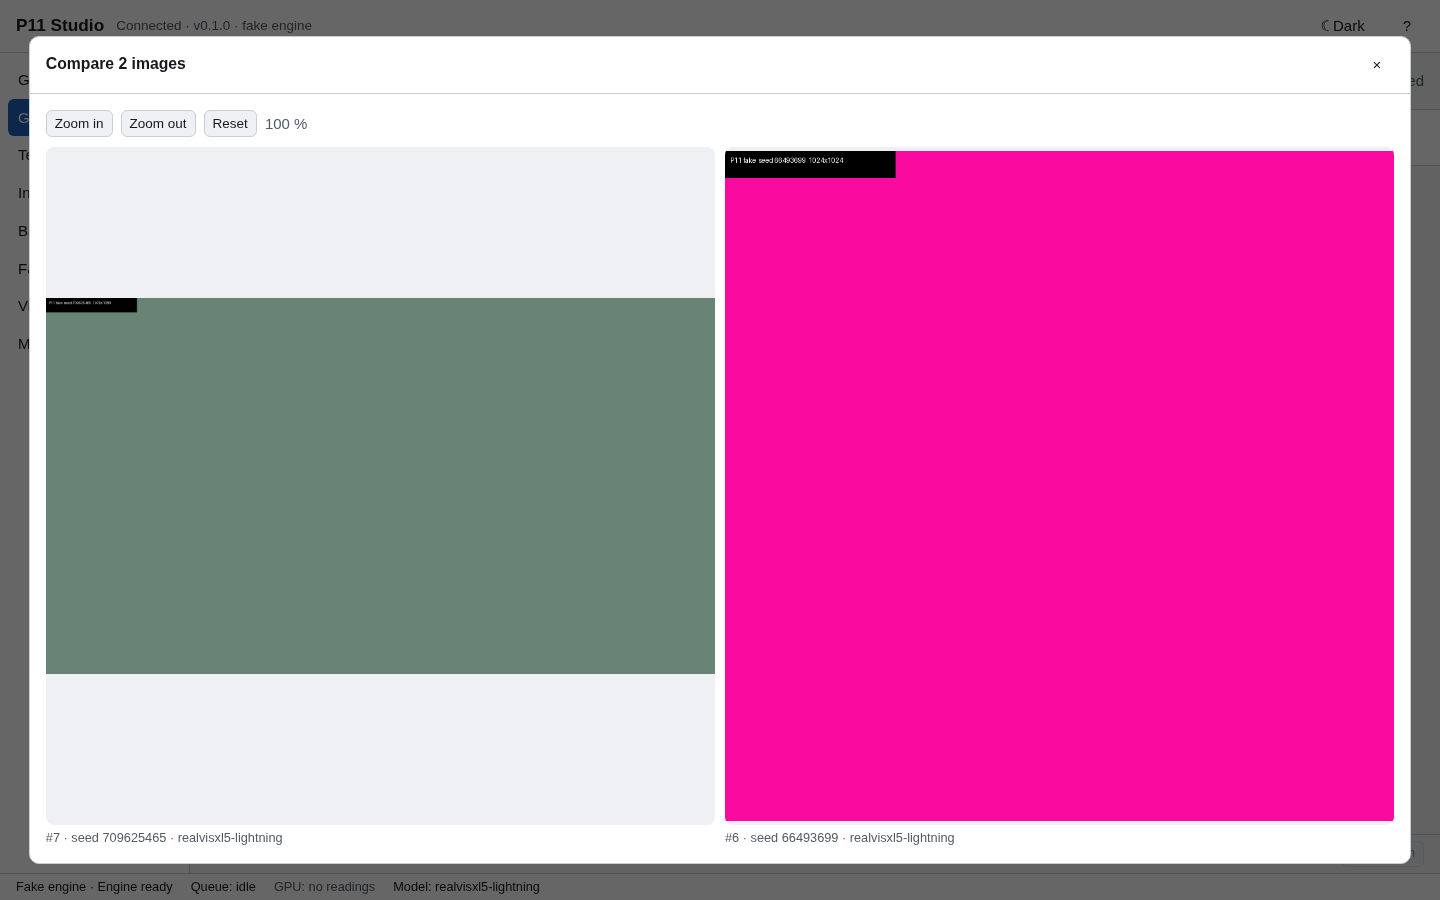
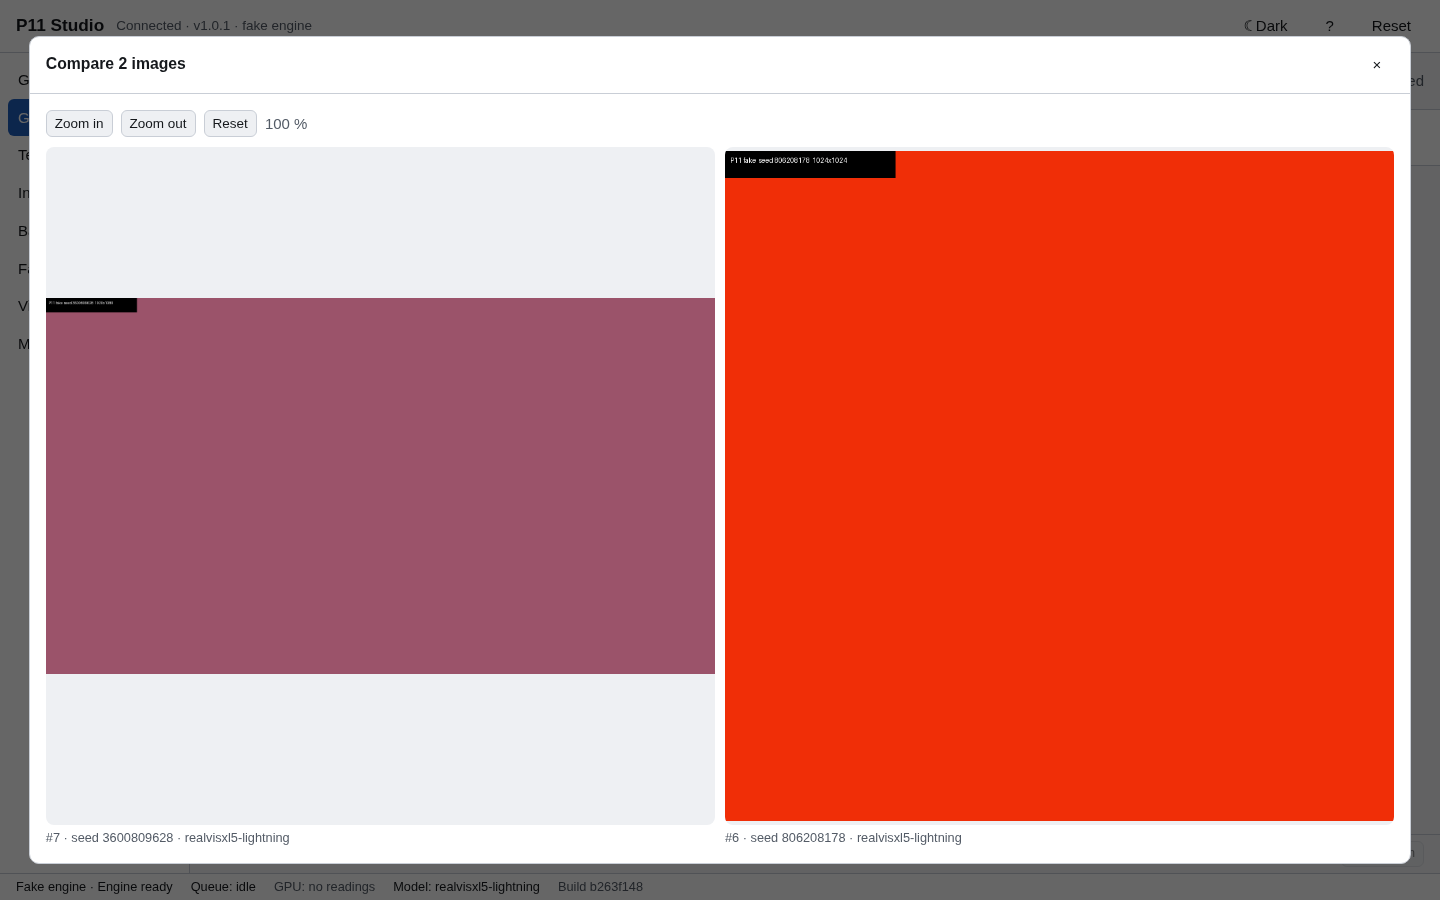
docs(17h): guide, architecture, changelog and screenshots

diff --git a/CHANGELOG.md b/CHANGELOG.md
@@ -5,6 +5,7 @@ All notable changes are recorded here. Format: [Keep a Changelog](https://keepac
 ## [Unreleased]
 
 ### Added
+- Phase 17h: a **Reset** button at the right of the top bar clears the forms, picked photos, masks and results in every tab after a short confirmation (ADR-0048). Nothing on disk changes, and it waits for running jobs. Theme, thumbnail size and remembered template inputs stay.
 - Phase 17g: **From gallery** on every image input (ADR-0046): Start from a photo, Inpaint, Background (photo and new background), Face & Pose (picture, face photo, pose photo, reference), the Video face photo and template image inputs. It passes a reference to the gallery image and uploads nothing, so edit chains and the S5 likeness rule work as they do from a result.
 - Phase 17g: **Small** and **Medium** gallery thumbnails, remembered per browser. Medium is the size the gallery always had.
 - Phase 17e: the Studio shows which build it is (ADR-0043). **Build** at the end of the status bar is the id baked into the JavaScript the window loaded; `p11 status` prints the same id, `p11 doctor` has a "Studio frontend" check, `p11 serve` logs a warning when the bundle is stale, and `/healthz` adds `web` (the short id only). When the server has a newer build than the window, the status bar offers **New build ready: reload**.
@@ -18,6 +19,7 @@ All notable changes are recorded here. Format: [Keep a Changelog](https://keepac
 - Phase 17e: `index.html` is served `Cache-Control: no-cache`, so an open app window picks up a rebuilt interface on reload; the hashed `/assets` stay cacheable. Node is required whenever the checkout has `frontend/src`, not only for a first build.
 
 ### Fixed
+- Phase 17h: a job that ended while the event stream was down could stay "running" in the Studio for good, including in the status bar. The Studio now re-reads unfinished jobs after every reconnect.
 - Phase 17g: S5 (ADR-0047). **Restore faces** on an uploaded photo showing a face now goes through the guard and marks its result, which otherwise reached the gallery as an unflagged copy of the upload. The **Background preview** of a picture from a likeness run now passes the guard as Apply does.
 - Phase 17g: a gallery image as the Video face photo no longer fails with an internal error. The face reference read the gallery index from a worker thread, so **Use face in Video** never worked in a real run.
 - Phase 17e: `./install.sh` and `p11 update` now rebuild the Studio frontend when its sources changed; before, they kept the first build, so v1.0.1's interface fixes and photo edit never appeared after an update. `src/p11/webbundle.py` records a hash of the sources in `src/p11/web/build-info.json`; `make build` writes it.

diff --git a/docs/P11_ARCHITECTURE.md b/docs/P11_ARCHITECTURE.md
@@ -208,6 +208,8 @@ Generate builds a one-step `generate` recipe; Advanced fields stay `null` (manif
 
 **Layout rule (Phase 17a).** The shell is fixed-height and `.main` clips, so every view is its own scroll container (`overflow: auto; min-height: 0`): the Generate/Inpaint/Background grid columns, and the single-column Face & Pose, Video and Models views. An overlay on a picture (the Background mask, the Video face boxes, the Text & logo crosshair) sits in a wrapper that shrink-wraps the picture (`width: fit-content`, `align-self: flex-start` inside a flex column), never in a box that stretches to the pane. `e2e/ui-fixes.spec.ts` checks both rules in Chromium.
 
+**Reset (Phase 17h, ADR-0048).** The top bar's Reset is client-only and sends no writing request. `Shell` keys the views on `NavProvider.resetKey`, so they remount with their initial state; `nav.reset()` clears `editing` in the same update, because each view compares `editing.at` during render and a remounted view would load the old hand-off again. The `reset` reducer action drops finished jobs and `currentModel`. `ResetDialog` disables the action while `unfinishedJobs` is not empty or the stream is not connected, because a job's Cancel lives in the view that started it. After every reconnect `StudioProvider` re-reads each unfinished job with `GET /api/jobs/<id>`: a missed finish is not replayed after a service restart or a full event buffer. A `refreshed` answer applies only while the job is still unfinished here, so a late response cannot undo the stream, and a 404 forgets the job.
+
 ## Templates (Phase 09, ADR-0024)
 ```
 result / gallery image ─► Save as Template dialog ─► POST /api/templates/from-image

diff --git a/docs/P11_USER-GUIDE.md b/docs/P11_USER-GUIDE.md
@@ -92,6 +92,8 @@ Tick the box on two or more images to **Compare** them side by side (zoom and pa
 
 **Keyboard shortcuts** (press <kbd>?</kbd> in the app): <kbd>Ctrl</kbd>+<kbd>Enter</kbd> generate · <kbd>Esc</kbd> cancel the job or close a dialog · <kbd>V</kbd> variations · <kbd>T</kbd> save as template · <kbd>Ctrl</kbd>+<kbd>K</kbd> find and run a template · <kbd>G</kbd> gallery · <kbd>?</kbd> shortcuts. Letter keys do nothing while you are typing in a field. The theme button in the top bar switches light and dark.
 
+**Start over.** **Reset** at the right of the top bar clears the forms, picked photos, masks and results in every tab, after a short confirmation, and you stay on the tab you are on. Nothing on disk changes: your images, uploads, models and templates stay. The gallery keeps its images and only loses its filters and selection. Your theme, thumbnail size and any template inputs you chose to remember also stay. If a job is running, Reset waits until it finishes or you cancel it; the same applies while the Studio is reconnecting.
+
 **Use a gallery image anywhere a photo is asked for.** Every photo input in the Studio has a **From gallery** button next to choosing a file: Start from a photo, Inpaint, Background (the photo and the new background), Face & Pose (picture, face photo, pose photo and reference), the face photo in Video, and a template's photo inputs. Search, press an image and it is in place, with nothing uploaded or copied. The safety checks that apply to a picture follow it wherever you pick it. Video clips and template mask inputs still take a file, because the gallery holds pictures.
 
 ## 4. Templates (written in Phase 09)
